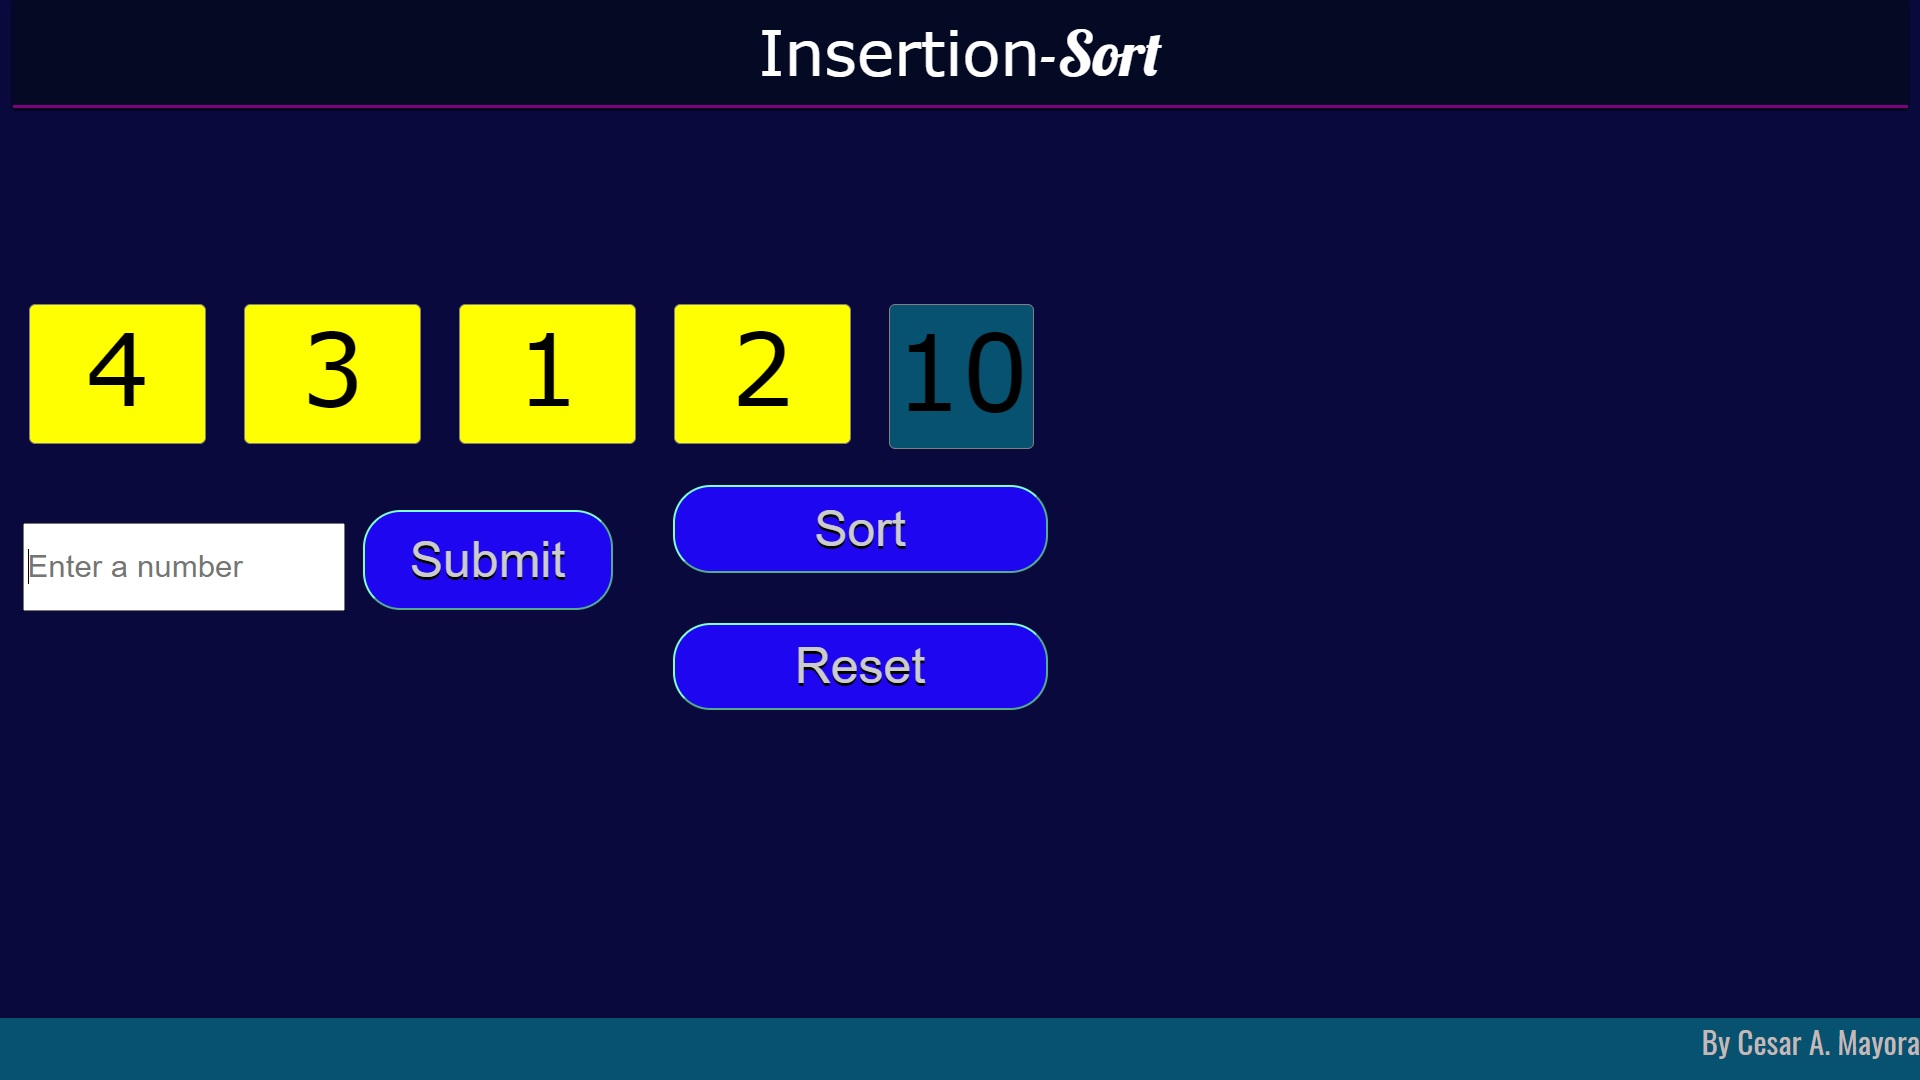
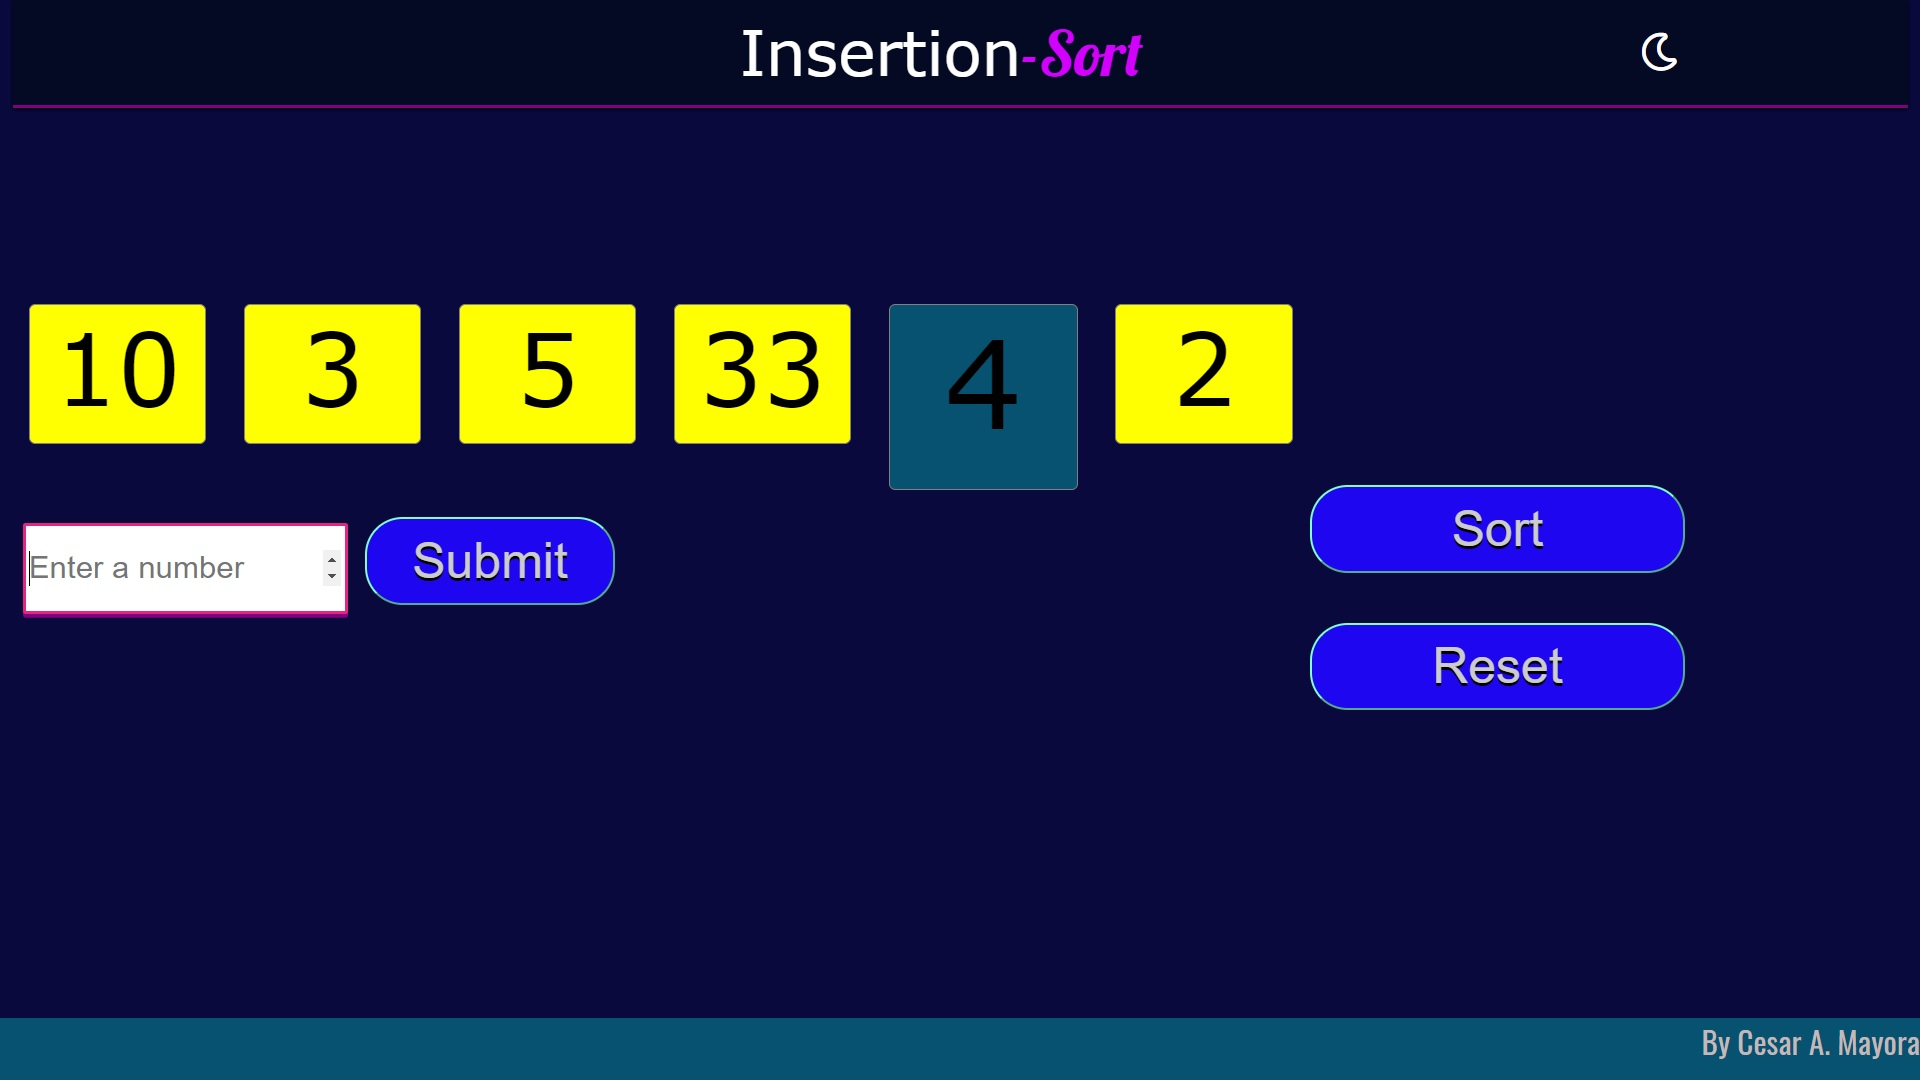
Web fonts setted

diff --git a/index.html b/index.html
@@ -6,6 +6,12 @@
         <meta name="viewport" content="width=device-width, initial-scale=1.0">
         <link rel="stylesheet" href="css/style.css" />
         <link rel="stylesheet" href="css/fonts.css" />
+        <link rel="preconnect" href="https://fonts.gstatic.com">
+        <link href="https://fonts.googleapis.com/css2?family=Lobster&display=swap" rel="stylesheet">
+        <link rel="preconnect" href="https://fonts.gstatic.com">
+        <link href="https://fonts.googleapis.com/css2?family=Lobster&family=Oswald&display=swap" rel="stylesheet">
+        <link rel="preconnect" href="https://fonts.gstatic.com">
+        <link href="https://fonts.googleapis.com/css2?family=Oswald&display=swap" rel="stylesheet">
         <script src="js/jquery-3.6.0.js"></script>
         <script src="https://kit.fontawesome.com/6386c7cd66.js" crossorigin="anonymous"></script>
         

diff --git a/css/style.css b/css/style.css
@@ -90,6 +90,8 @@ body{
     grid-column: 2;
     
     font-family: Lobster-Regular;
+    font-family: 'Lobster', cursive;
+
     font-size: 50px;
     text-align: center;
     margin: 0 auto;
@@ -200,8 +202,6 @@ body{
 /* Footer's styles*/
 
 .footer{
-    display: grid;
-
     position: fixed;
     bottom: 0;
     left: 0;
@@ -213,4 +213,5 @@ body{
     color: rgb(196, 185, 185);
     text-align: end;
     font-family: Oswald-VariableFont_wght;
+    font-family: 'Oswald', sans-serif;
 }
